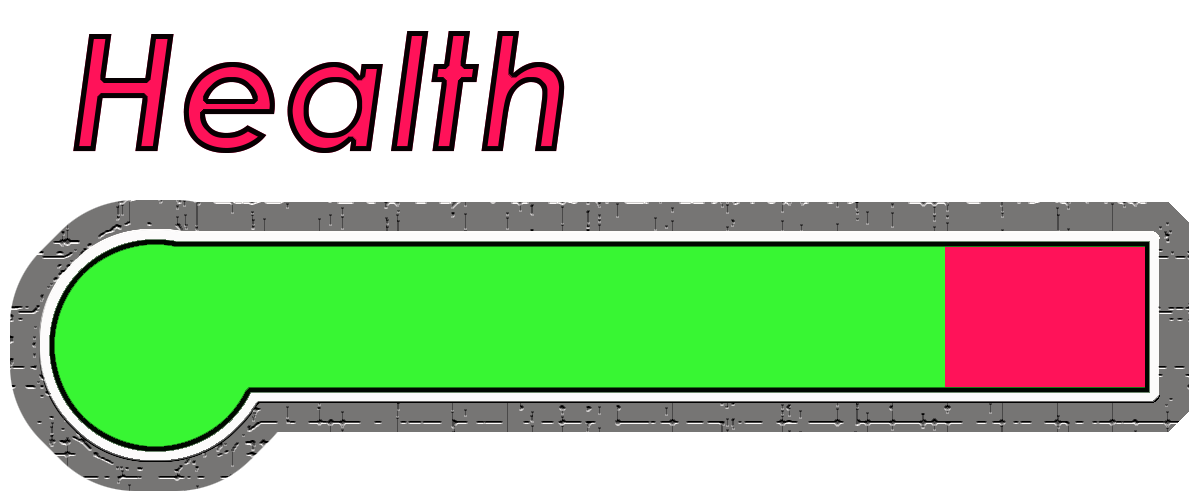
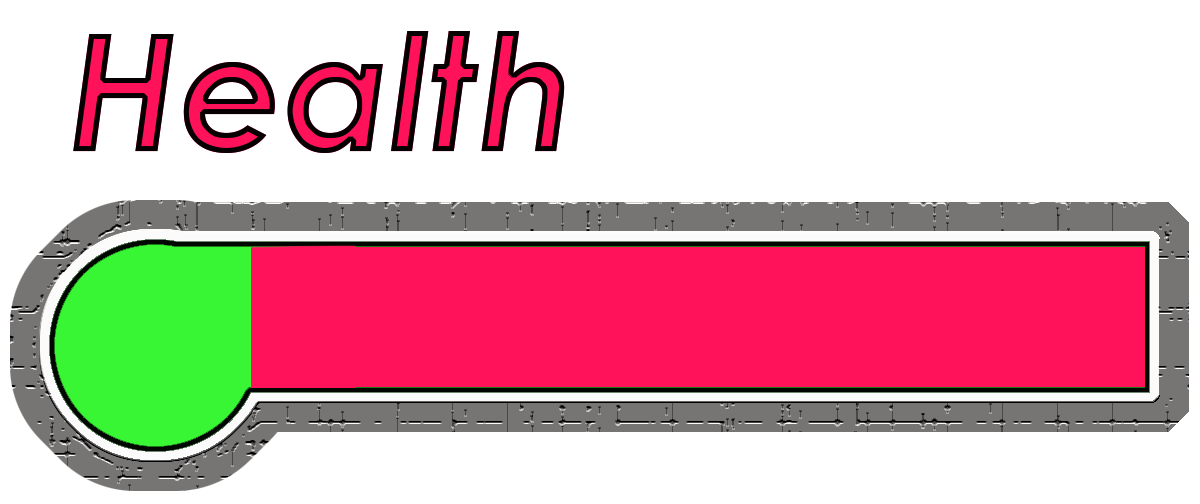
Reversed Health Process

Changed region(s): [[0.185, 0.4762, 0.8017, 0.7738]]

diff --git a/Assets/Scripts/PlayerHealth.cs b/Assets/Scripts/PlayerHealth.cs
@@ -12,7 +12,7 @@ public class PlayerHealth : MonoBehaviour
 	public Sprite[] healthBarArray;
 	public Image healthBar;
 
-	private int healthBarCount = 0;
+	private int healthBarCount = 12;
 
 	void Start () 
 	{
@@ -21,7 +21,7 @@ public class PlayerHealth : MonoBehaviour
 
 	void Update ()
 	{
-		if (healthBarCount <= 0) {
+		if (healthBarCount > 12) {
 
 			NumberofKits = NumberofKits;
 			HealthKits.text = NumberofKits.ToString();
@@ -32,7 +32,7 @@ public class PlayerHealth : MonoBehaviour
 			NumberofKits-=1;
 			HealthKits.text = NumberofKits.ToString();
 			healthBarCount = 12;
-			healthBar.sprite = healthBarArray[0];
+			healthBar.sprite = healthBarArray[11];
 		}
 
 		if (Input.GetKeyDown (KeyCode.B)){
@@ -64,11 +64,11 @@ public class PlayerHealth : MonoBehaviour
 
 	public void TakeDamage()
 	{
-		healthBarCount+=2;
+		healthBarCount-=2;
 
-		if (healthBarCount >= 12){
+		if (healthBarCount <= 0){
 
-			healthBar.sprite = healthBarArray [11];
+			healthBar.sprite = healthBarArray [0];
 			GameOver ();
 		}
 
@@ -77,7 +77,7 @@ public class PlayerHealth : MonoBehaviour
 
 	public void HealDamage(){
 
-		healthBarCount = 0;
+		healthBarCount = 12;
 		healthBar.sprite = healthBarArray [healthBarCount];
 	}
 
